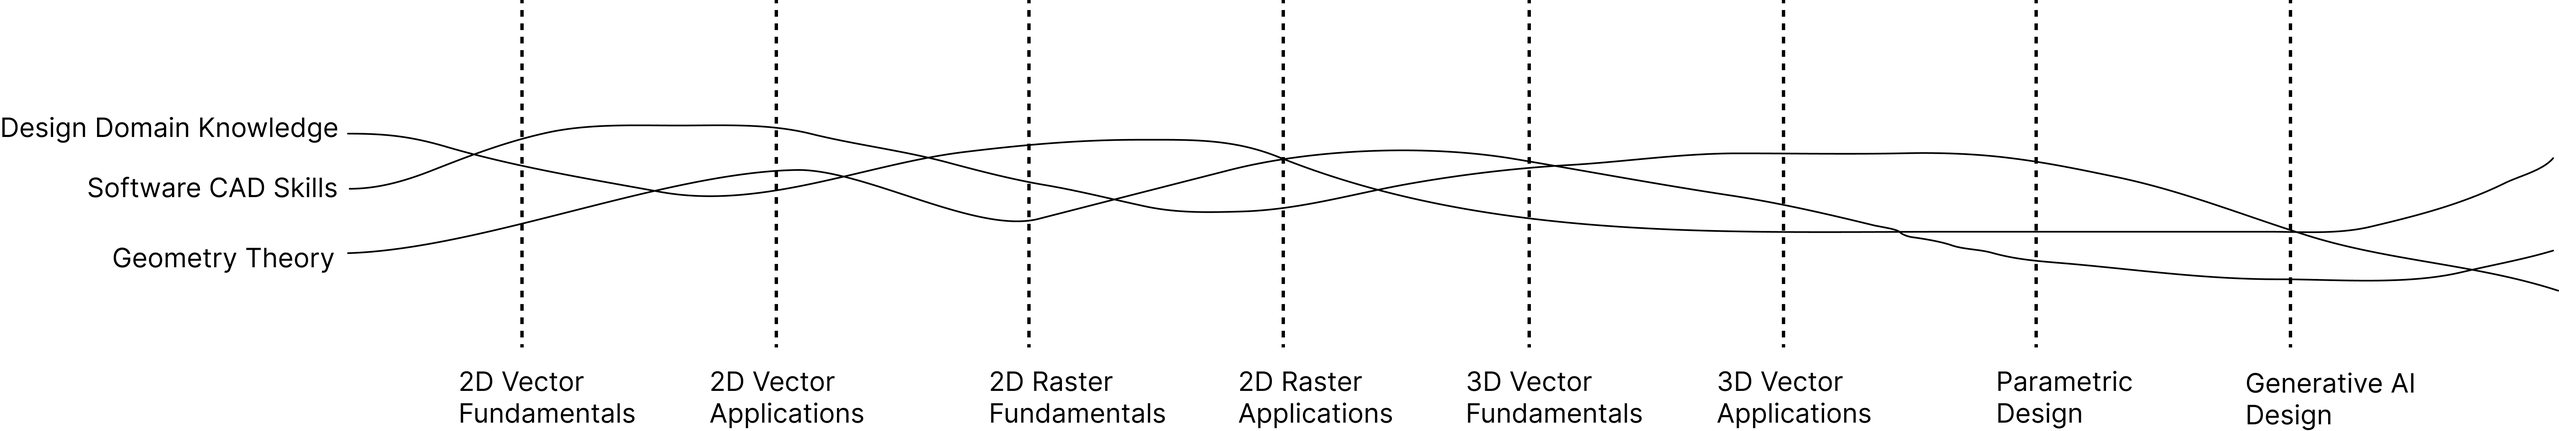
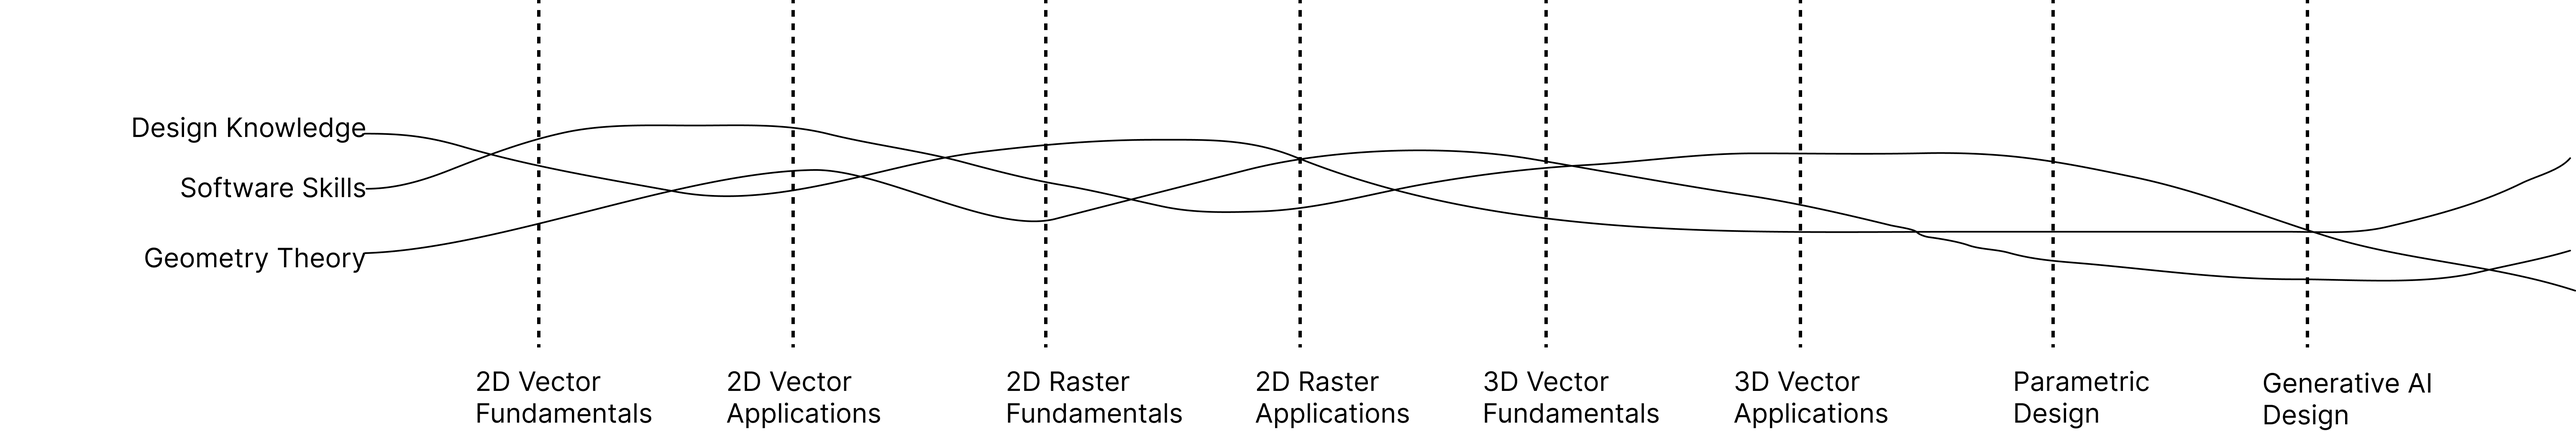
finish

diff --git a/content/post/getting-started/index.md b/content/post/getting-started/index.md
@@ -12,15 +12,15 @@ image:
   preview_only: false
 lastmod: "2020-12-13T00:00:00Z"
 projects: []
-subtitle: "I have extensive experience in teaching computational design and representation: the instructor of record for ARC1911 Digital Representation at University of Pittsburgh; guest lecturer to teach AI for design representations at Cornell Unviersity twice and University of Florida; TA for four times for DEA 1101 Visual Literacy and Design Studio."
-summary: "I have extensive experience in teaching computational design and representation: the instructor of record for ARC1911 Digital Representation at University of Pittsburgh; guest lecturers to teach AI for design representations at Cornell Unviersity and University of Florida; teaching assistant for four times for DEA 1101 Visual Literacy and Design Studio."
+subtitle: "I have extensive experience in teaching Design and Digital Media: the instructor of record for ARC1911 Design and Digital Media at University of Pittsburgh; guest lecturer to teach AI for design representations at Cornell Unviersity twice and University of Florida; TA for four times for DEA 1101 Visual Literacy and Design Studio."
+summary: "I have extensive experience in teaching Design and Digital Media: the instructor of record for ARC1911 Design and Digital Media at University of Pittsburgh; guest lecturers to teach AI for design representations at Cornell Unviersity and University of Florida; teaching assistant for four times for DEA 1101 Visual Literacy and Design Studio."
 
-title: Computational Design and Representation
+title: Design and Digital Media
 ---
 
 ## Overview
 
-1. **Structure and Goals**: **Design Domain Knowledge** (Architecture/Industrial Design/System Design/Interior Design etc.) + **Software Skills** (AutoCAD, Illustrator, Photoshop, Fusion360, Rhino, Grasshopper, Revit, StableDiffusion etc.) + **Geometry Theory** (Architetural Geometry/Descriptive Gemotry/Computer Graphics/ Generative AI knowledge etc.)
+1. **Structure and Goals**: **Design Knowledge** (Architecture/Industrial Design/UX System Design/Interior Design etc.) + **Software Skills** (AutoCAD, Illustrator, Photoshop, Fusion360, Rhino, Figma,  Grasshopper, Revit, StableDiffusion etc.) + **Geometry Theory** (Architetural Geometry/Descriptive Gemotry/Computer Graphics/ Generative AI knowledge etc.)
 2. **Content and Curriculum**: Courses are organized by tasks and assignments; Lectures and Practice. 
 3. **AI Integration**: AI is a critical section in computational design and representation. I have successfully taught multiple workshops and one-month modules in departments of Interior Design, Architecture, Human-centered Design, Landscape Archtecture, Fashion Design at Cornell, University of Florida, and University of Pittsburgh.
 4. **Links**: Links to examples of Syllabus, Miro Board, and slides.

diff --git a/content/authors/admin/_index.md b/content/authors/admin/_index.md
@@ -5,7 +5,7 @@ first_name: Wangda
 highlight_name: yes
 last_name: Zhu
 organizations: 
-- name: PhD and M.Arch @ Cornell University;      
+- name: PhD and MS @ Cornell University;      
         BEng and B.Arch @ Zhejiang University
 role: Postdoc @ University of Florida
 social:
@@ -29,5 +29,5 @@ social:
 superuser: yes
 bio: null
 ---
-With experience in education, design, and human-computer interaction, blending user experience, AI technologies, and computational methods to create interactive learning environments powered by AI that are desirable and make students engaged. 
+With experience in **education**, **design**, and **human-computer interaction**, blending **UX**, **AI technologies**, and **computational methods** to create **interactive media** powered by AI that are desirable and engaging. 
 {style="text-align: justify;"}

diff --git a/content/project/DSEM/index.md b/content/project/DSEM/index.md
@@ -4,14 +4,14 @@ external_link: ""
 
 tags:
 - Research Methods
-title: Model Driven/Theory Driven Method-Dynamic Structural Equaltion Modeling
+title: Model Driven-Dynamic Structural Equaltion Modeling
 url_code: ""
 url_pdf: ""
 url_slides: ""
 url_video: ""
 
 ---
-Zhu, G., Zhu, W., Ratner, K., & Burrow, A. (Under review). Investigating Reciprocity between Daily Emotions and Learning Progress in Self-Directed Learning. Contemporary Educational Psychology. 
+Zhu, G., Zhu, W., Ratner, K., & Burrow, A. (Under review). Investigating Reciprocity between Daily Emotions and Learning Progress in Self-Directed Learning. Emotion. 
 
 Control-value theory suggests the bidirectional association between learners' emotions
 and academic performance, supported by empirical evidence. However, previous

diff --git a/content/_index.md b/content/_index.md
@@ -116,17 +116,29 @@ sections:
 #     title: Gallery
 #   design:
 #     columns: "1"
-# - block: collection
-#   content:
-#     filters:
-#       featured_only: true
-#       folders:
-#       - publication
-#     title: Featured Publications
-#   design:
-#     columns: "2"
-#     view: card
-#   id: featured
+- block: collection
+  content:
+    filters:
+      featured_only: true
+      folders:
+      - publication
+    title: Publications
+  design:
+    columns: "1"
+    flip_alt_rows: false
+    view: card
+  id: publications
+- block: collection
+  content:
+    filters:
+      featured_only: false
+      folders:
+      - post
+    title: Teaching
+  design:
+    columns: "1"
+    view: card
+  id: teaching
 # - block: collection
 #   content:
 #     filters:

diff --git a/content/project/Instagram/index.md b/content/project/Instagram/index.md
@@ -7,7 +7,7 @@ external_link: ""
 # summary: An example of using the in-built project page.
 tags:
 - Learning via Creation
-title: Instagram Learning Community
+title: Social Media Learning Community
 url_code: ""
 url_pdf: ""
 url_slides: "https://docs.google.com/presentation/d/1oe_KpS6HBmbtDjAExJ5J_i8zqx2ynigd_iKi5cTpuEs/edit?usp=sharing"

diff --git a/content/project/NPS/index.md b/content/project/NPS/index.md
@@ -4,7 +4,7 @@ external_link: ""
 
 tags:
 - Research Methods
-title: NPS Survey
+title: Complex Survey Analysis
 url_code: ""
 url_pdf: "https://drive.google.com/file/d/1oPfq7saXHzXHmaTAyLkTZ0elhX8UNgUH/view?usp=sharing"
 url_slides: "https://docs.google.com/presentation/d/1ddEfYpPqo_3Pe2x_CKnm9LaEqUCHR_2gS9rr6DrybT8/edit?usp=sharing"

diff --git a/content/publication/conference-paper - Copy/index.md b/content/publication/conference-paper - Copy/index.md
@@ -18,7 +18,7 @@ authors:
 - Chenglu Li
 date: "2024-07-01T00:00:00Z"
 # doi: ""
-# featured: true
+featured: false
 # image:
 #   caption: 'Image credit: [**Unsplash**](https://unsplash.com/photos/pLCdAaMFLTE)'
 #   focal_point: ""

diff --git a/content/publication/conference-paper - Copy - Copy - Copy - Copy/index.md b/content/publication/conference-paper - Copy - Copy - Copy - Copy/index.md
@@ -18,7 +18,7 @@ authors:
 - Kui Shao
 date: "2024-07-01T00:00:00Z"
 # doi: ""
-# featured: true
+featured: true
 # image:
 #   caption: 'Image credit: [**Unsplash**](https://unsplash.com/photos/pLCdAaMFLTE)'
 #   focal_point: ""

diff --git a/content/publication/journal-article/index.md b/content/publication/journal-article/index.md
@@ -14,7 +14,7 @@ authors:
 - Luping Wang
 date: "2022-09-01T00:00:00Z"
 doi: ""
-featured: false
+featured: true
 # image:
 #   caption: 'Image credit: [**Unsplash**](https://unsplash.com/photos/jdD8gXaTZsc)'
 #   focal_point: ""

diff --git a/content/publication/conference-paper - Copy - Copy/index.md b/content/publication/conference-paper - Copy - Copy/index.md
@@ -16,7 +16,7 @@ authors:
 - Rui Guo
 date: "2024-07-01T00:00:00Z"
 # doi: ""
-# featured: true
+featured: true
 # image:
 #   caption: 'Image credit: [**Unsplash**](https://unsplash.com/photos/pLCdAaMFLTE)'
 #   focal_point: ""

diff --git a/content/publication/journal-article - Copy - Copy - Copy - Copy/index.md b/content/publication/journal-article - Copy - Copy - Copy - Copy/index.md
@@ -12,7 +12,7 @@ authors:
 - Ying Hua
 date: "2023-09-01T00:00:00Z"
 doi: ""
-featured: false
+featured: true
 # image:
 #   caption: 'Image credit: [**Unsplash**](https://unsplash.com/photos/jdD8gXaTZsc)'
 #   focal_point: ""

diff --git a/content/publication/journal-article - Copy - Copy/index.md b/content/publication/journal-article - Copy - Copy/index.md
@@ -13,7 +13,7 @@ authors:
 - Ying Hua
 date: "2024-01-01T00:00:00Z"
 doi: ""
-featured: false
+featured: true
 # image:
 #   caption: 'Image credit: [**Unsplash**](https://unsplash.com/photos/jdD8gXaTZsc)'
 #   focal_point: ""
